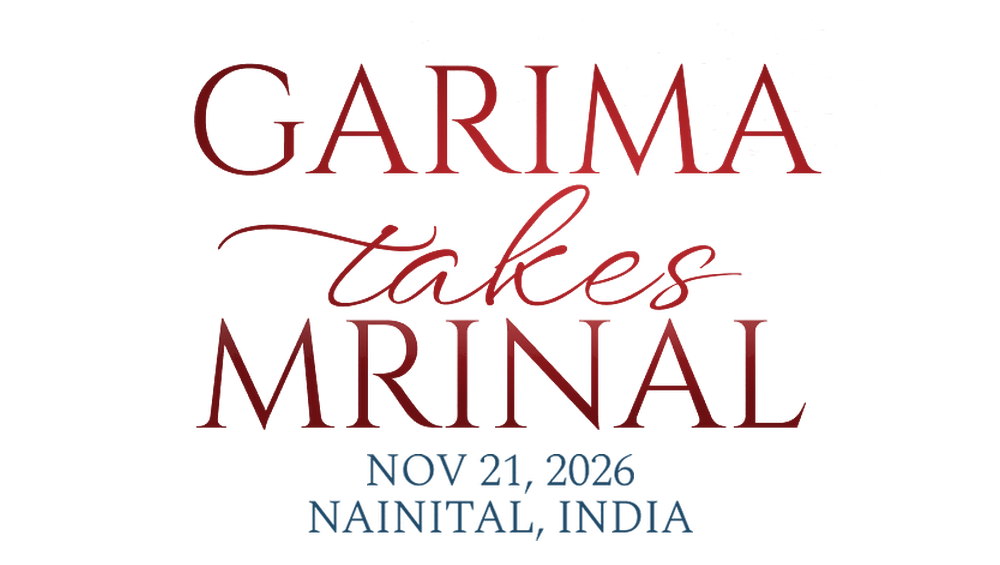
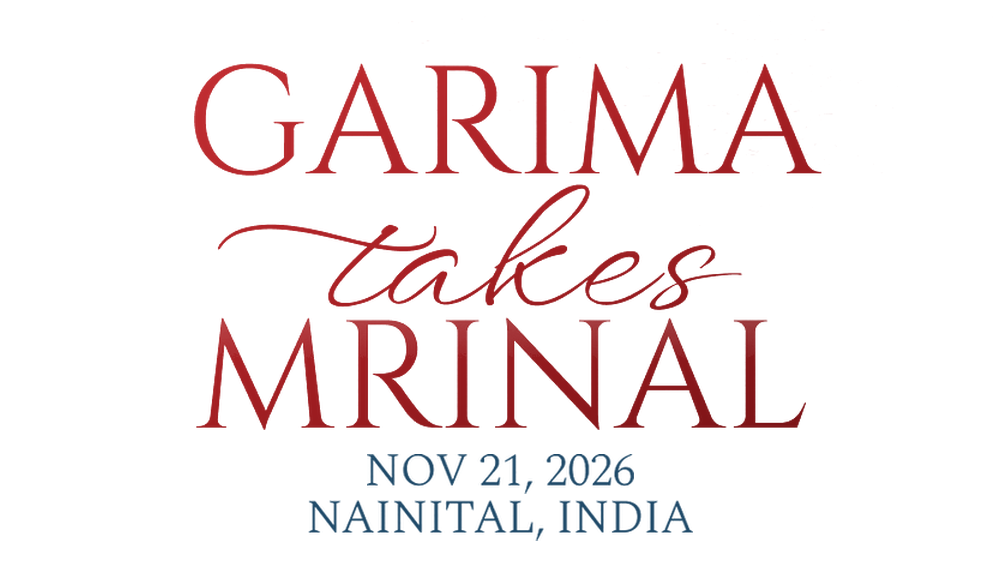
Revert centerpiece typography to Option 2 Imperial Velvet Lustre gradient

diff --git a/index.html b/index.html
@@ -17,15 +17,15 @@
 <meta name="apple-mobile-web-app-title" content="GTM 2026">
 <title>Garima weds Mrinal · Nainital 2026</title>
 <meta name="description" content="Garima weds Mrinal · A wedding in the Kumaon hills · 20–22 November 2026 · Nainital, Uttarakhand">
-<link rel="icon" type="image/png" sizes="32x32" href="images/favicon-32x32.png?v=5500">
-<link rel="icon" type="image/png" sizes="64x64" href="images/favicon-64x64.png?v=5500">
-<link rel="icon" type="image/x-icon" href="favicon.ico?v=5500">
+<link rel="icon" type="image/png" sizes="32x32" href="images/favicon-32x32.png?v=5600">
+<link rel="icon" type="image/png" sizes="64x64" href="images/favicon-64x64.png?v=5600">
+<link rel="icon" type="image/x-icon" href="favicon.ico?v=5600">
 <link rel="preconnect" href="https://fonts.googleapis.com">
 <link rel="preconnect" href="https://fonts.gstatic.com" crossorigin>
 <link href="https://fonts.googleapis.com/css2?family=Cinzel:wght@400;500;600;700&family=Cormorant+Garamond:ital,wght@0,300;0,400;0,500;0,600;0,700;1,400;1,500&family=Spectral:wght@200;300;400;500;600;700&family=WindSong&display=swap" rel="stylesheet">
-<link rel="stylesheet" href="css/site.css?v=5500">
+<link rel="stylesheet" href="css/site.css?v=5600">
 <!-- Critical High-Performance Asset Preloads -->
-<link rel="preload" as="image" href="images/home_centerpiece.webp?v=5500" type="image/webp" fetchpriority="high">
+<link rel="preload" as="image" href="images/home_centerpiece.webp?v=5600" type="image/webp" fetchpriority="high">
 <link rel="preload" as="image" href="images/Welcome_Flowers.png" type="image/png">
 <link rel="preload" as="image" href="images/home_butterfly.webp" type="image/webp">
 <style>
@@ -524,8 +524,8 @@ html, body {
   <div class="home-hero-text">
     <div class="home-centerpiece-wrap">
       <picture>
-        <source srcset="images/home_centerpiece.webp?v=5500" type="image/webp">
-        <img src="images/home_centerpiece.png?v=5500" alt="GARIMA takes MRINAL · NOV 21, 2026 · NAINITAL, INDIA" class="home-centerpiece-img" width="1000" height="565" fetchpriority="high" decoding="async">
+        <source srcset="images/home_centerpiece.webp?v=5600" type="image/webp">
+        <img src="images/home_centerpiece.png?v=5600" alt="GARIMA takes MRINAL · NOV 21, 2026 · NAINITAL, INDIA" class="home-centerpiece-img" width="1000" height="565" fetchpriority="high" decoding="async">
       </picture>
     </div>
   </div>
@@ -832,7 +832,7 @@ document.addEventListener('DOMContentLoaded', function() {
   }
 });
 </script>
-<script src="js/spa-nav.js?v=5500" defer></script>
-<script src="js/global-audio.js?v=5500" defer></script>
+<script src="js/spa-nav.js?v=5600" defer></script>
+<script src="js/global-audio.js?v=5600" defer></script>
 </body>
 </html>
